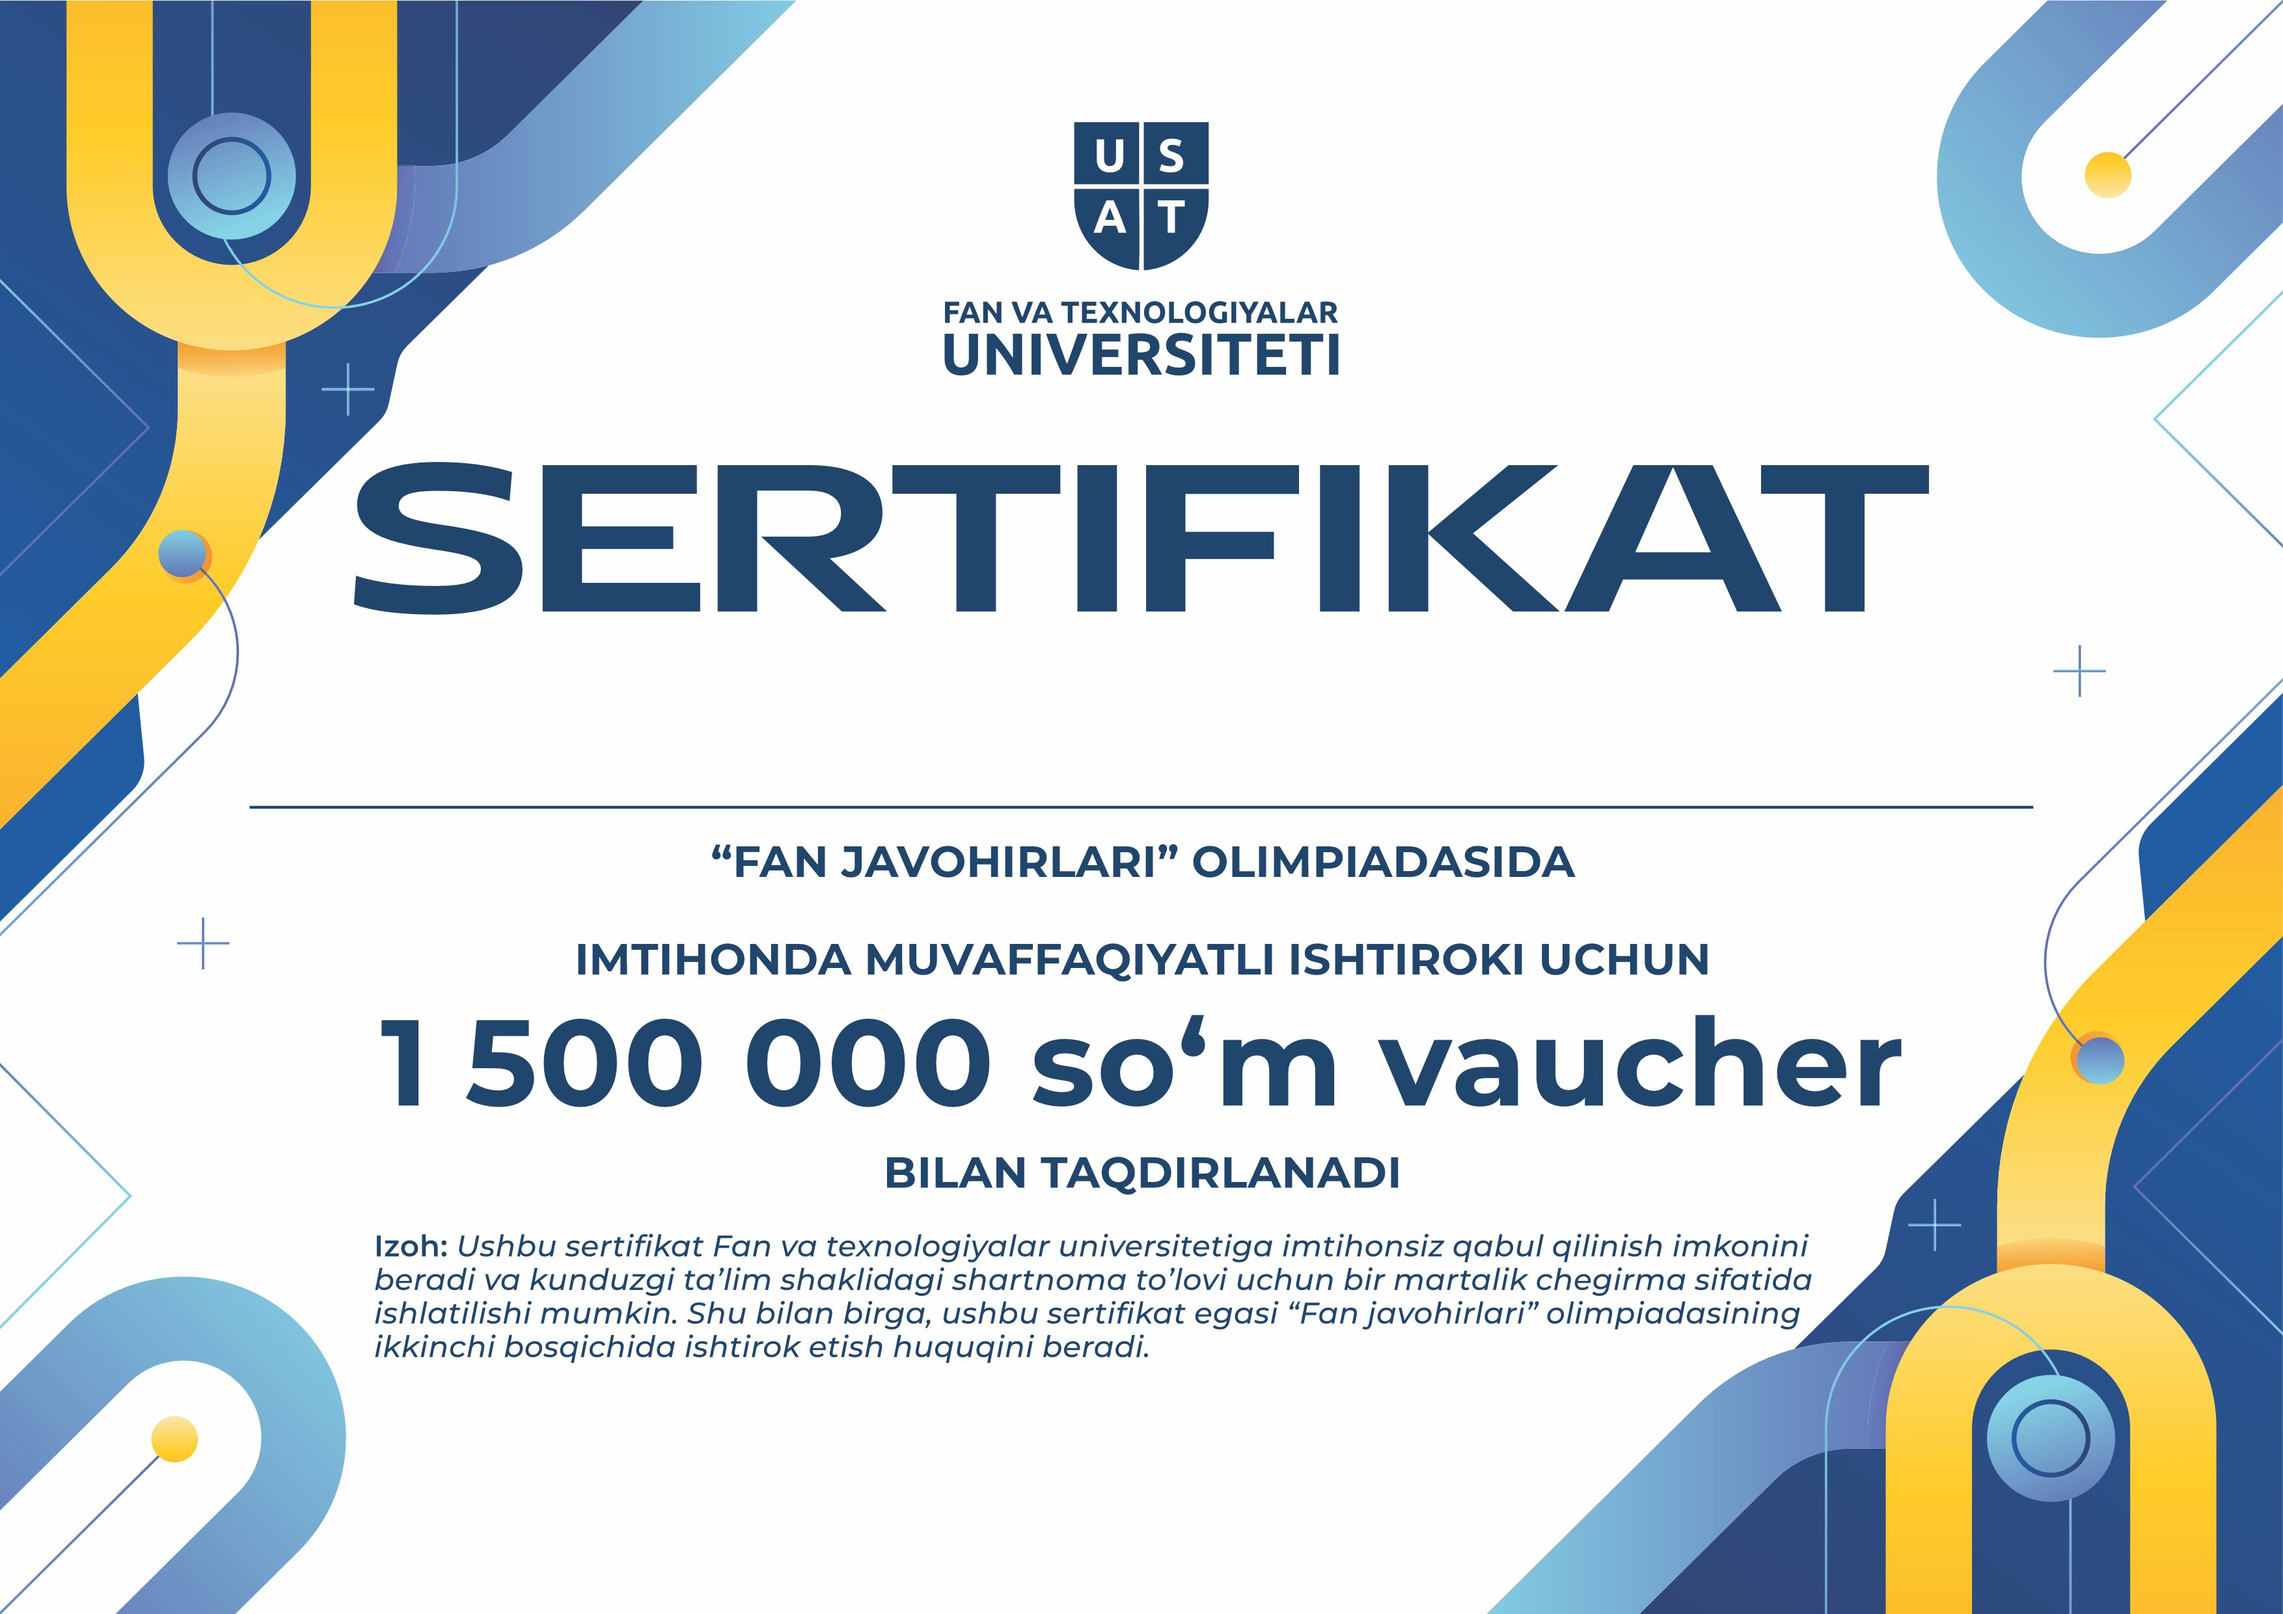
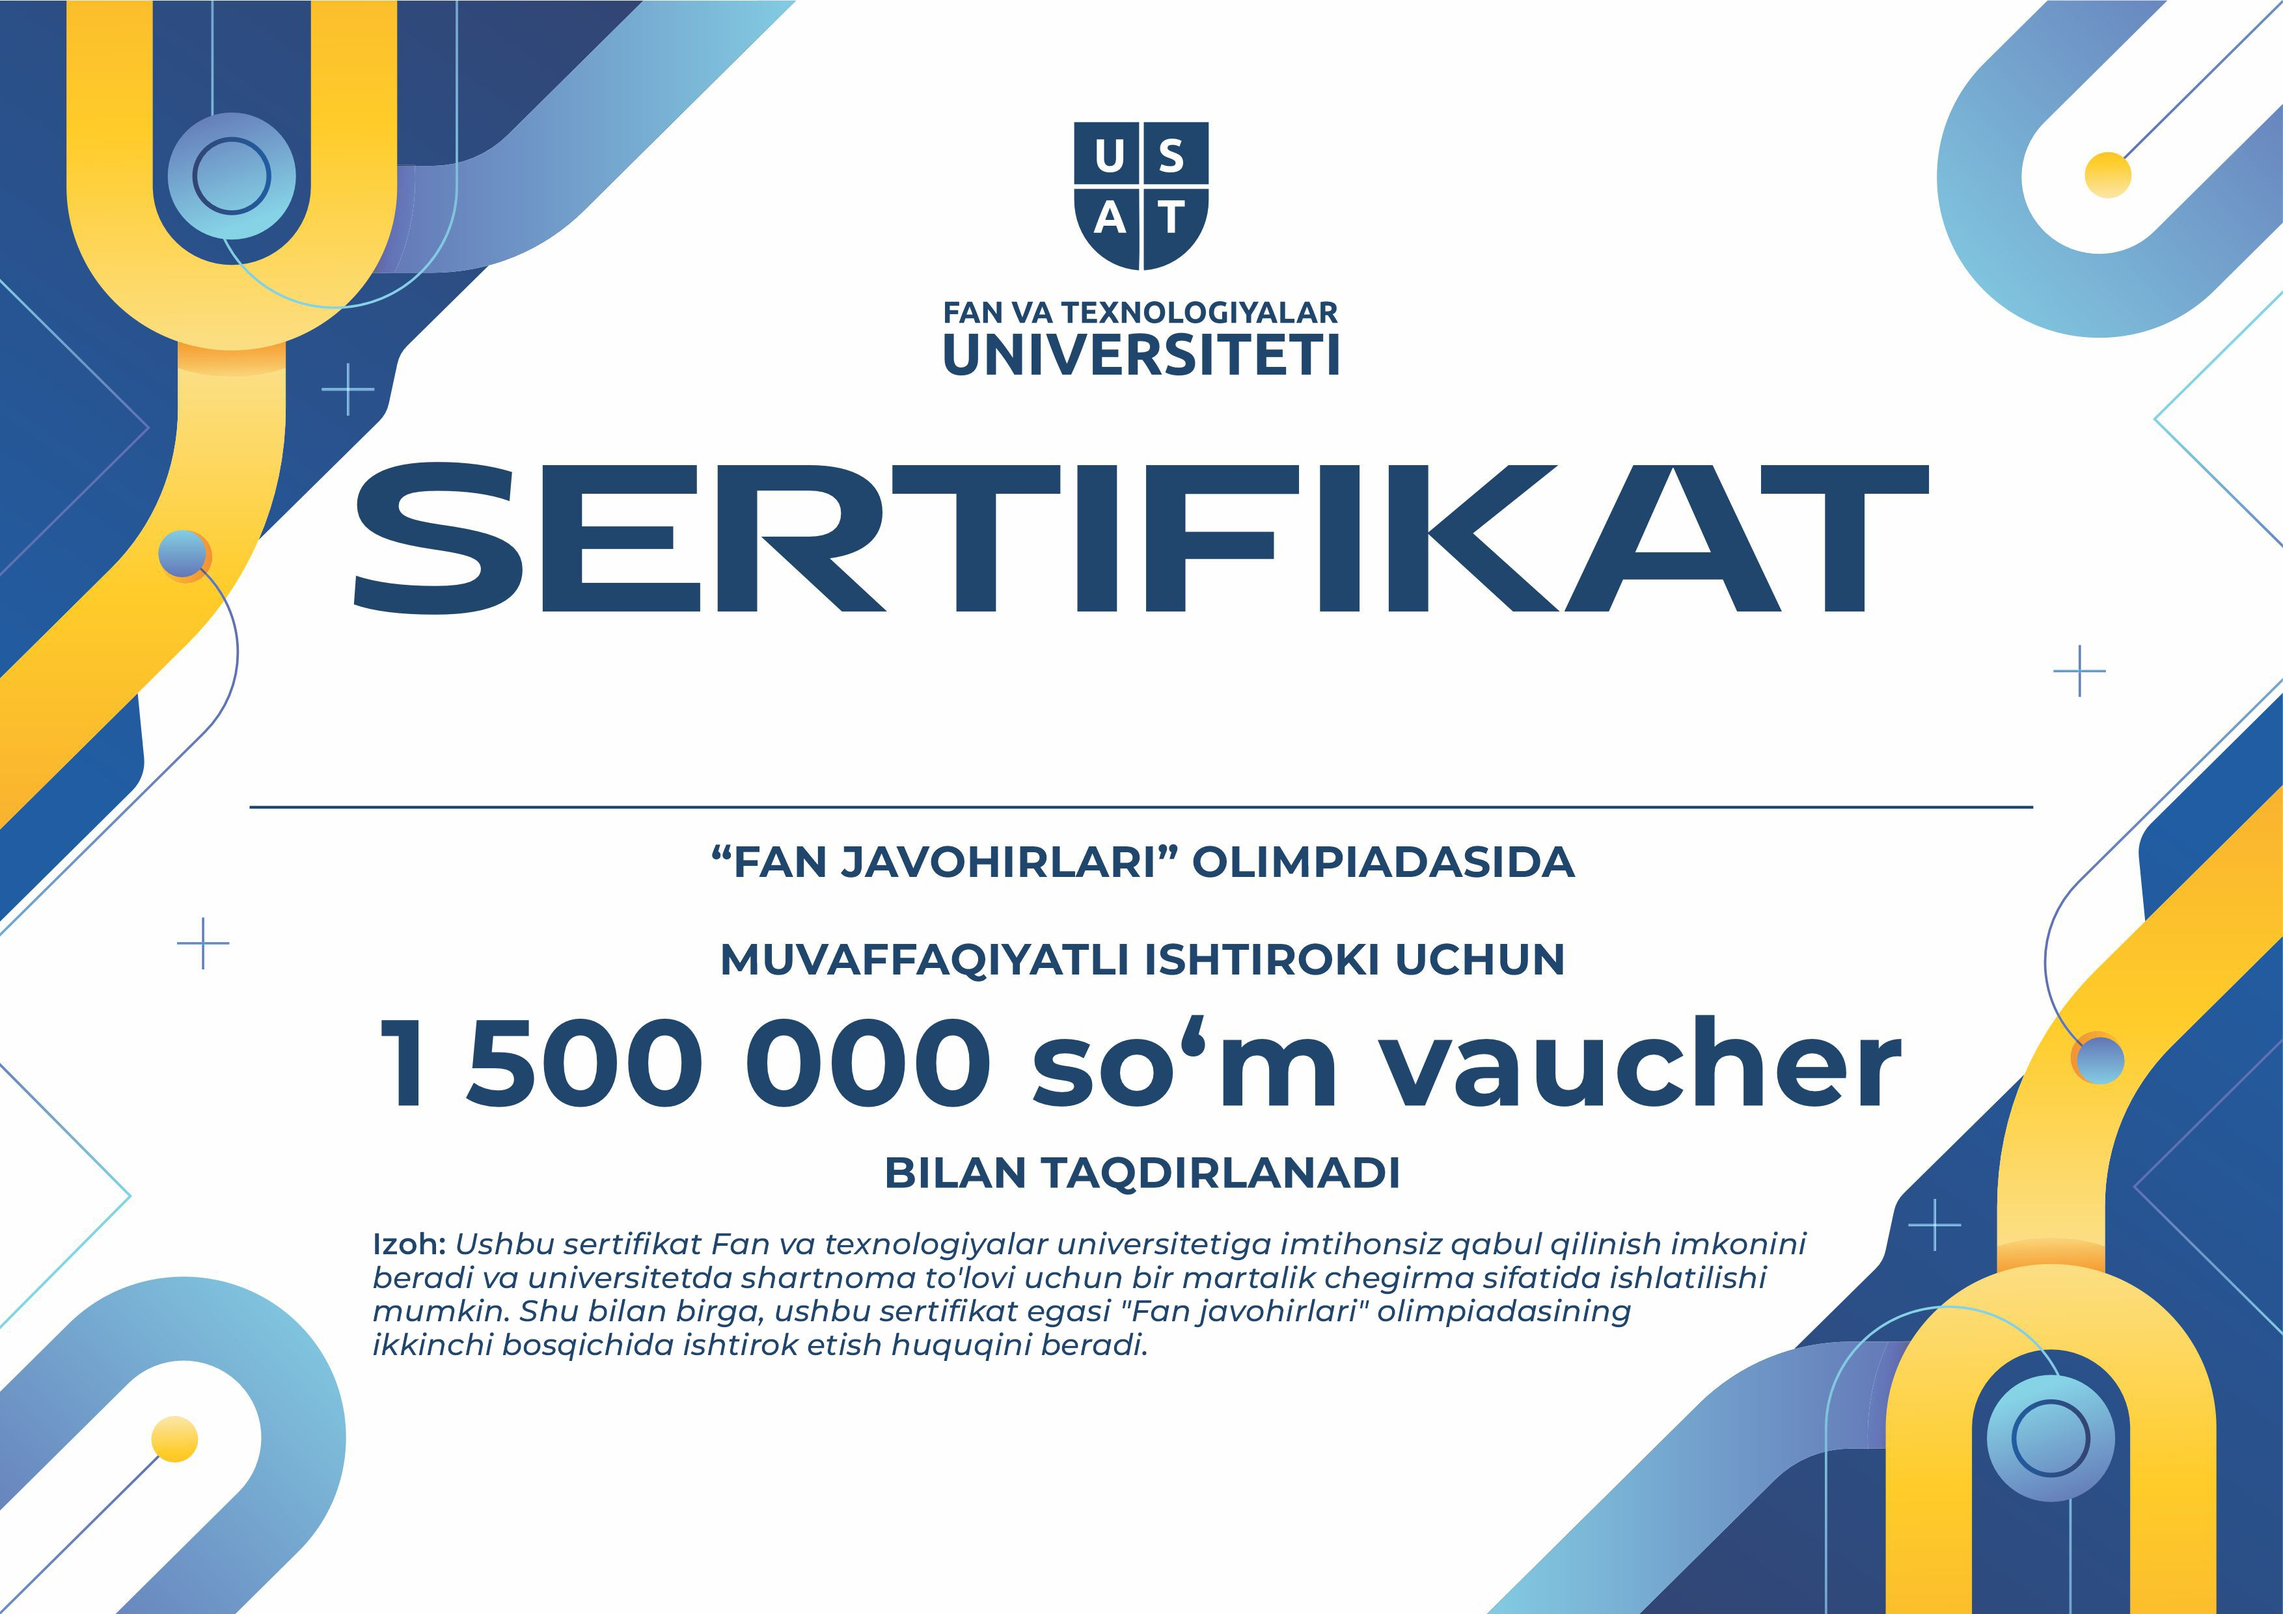
update certificate

Changed region(s): [[0.1554, 0.7449, 0.8079, 0.838], [0.2486, 0.5897, 0.7457, 0.6207]]

diff --git a/handlers/users/test_execution_handler.py b/handlers/users/test_execution_handler.py
@@ -354,29 +354,28 @@ async def handle_test_completion(call, state, test_id, user_resp, language, resp
     if data.get('olympiad_test'):
         text1 = ("✅ Olimpiada testi yakunlandi!\n\nHurmatli {}, siz test savollarining {} tasiga to'g'ri javob berib, "
                  "{} ballni qo'lga kiritdingiz.\n\nTabriklaymiz, siz olimpiadaning 2-bosqichiga o'tdingiz. 2-bosqich "
-                 "may oyida Fan va texnologiyalar universitetining binosida bo'lib o'tadi.\n\nShu bilan birga, "
+                 "may oyida Fan va texnologiyalar universitetining binosida bo'lib o'tadi. \n\nShu bilan birga, "
                  "siz 2 million so'mlik vaucherni ham qo'lga kiritdingiz. Ushbu vaucherni Fan va texnologiyalar "
-                 "universitetida kunduzgi ta'lim shaklidagi shartnoma to'lovi uchun bir martalik chegirma sifatida "
-                 "ishlatishingiz mumkin.\n\nFan va texnologiyalar universitetining yangiliklaridan xabardor bo'lib "
-                 "turish uchun @usatuzb telegram kanaliga a'zo bo'lishingiz mumkin. Batafsil ma'lumot uchun "
-                 "78-888-38-88 telefon raqamiga qo'ng'iroq qiling.\n\nBizni sizni kutamiz!")
+                 "universitetida shartnoma to'lovi uchun bir martalik chegirma sifatida ishlatishingiz mumkin.\n\nFan "
+                 "va texnologiyalar universitetining yangiliklaridan xabardor bo'lib turish uchun @usatuzb telegram "
+                 "kanaliga a'zo bo'lishingiz mumkin. Batafsil ma'lumot uchun 78-888-38-88 telefon raqamiga qo'ng'iroq "
+                 "qiling.\n\nBizni sizni kutamiz!")
         text2 = ("✅ Olimpiada testi yakunlandi!\n\nHurmatli {}, siz test savollarining {} tasiga to'g'ri javob berib, "
                  "{} ballni qo'lga kiritdingiz.\n\nTabriklaymiz, siz olimpiadaning 2-bosqichiga o'tdingiz. 2-bosqich "
                  "may oyida Fan va texnologiyalar universitetining binosida bo'lib o'tadi. \n\nShu bilan birga, "
                  "siz 1,5 million so'mlik vaucherni ham qo'lga kiritdingiz. Ushbu vaucherni Fan va texnologiyalar "
-                 "universitetida kunduzgi ta'lim shaklidagi shartnoma to'lovi uchun bir martalik chegirma sifatida "
-                 "ishlatishingiz mumkin.\n\nFan va texnologiyalar universitetining yangiliklaridan xabardor bo'lib "
-                 "turish uchun @usatuzb telegram kanaliga a'zo bo'lishingiz mumkin. Batafsil ma'lumot uchun "
-                 "78-888-38-88 telefon raqamiga qo'ng'iroq qiling.\n\nBizni sizni kutamiz!")
+                 "universitetida shartnoma to'lovi uchun bir martalik chegirma sifatida ishlatishingiz mumkin.\n\nFan "
+                 "va texnologiyalar universitetining yangiliklaridan xabardor bo'lib turish uchun @usatuzb telegram "
+                 "kanaliga a'zo bo'lishingiz mumkin. Batafsil ma'lumot uchun 78-888-38-88 telefon raqamiga qo'ng'iroq "
+                 "qiling.\n\nBizni sizni kutamiz!")
         text3 = ("✅ Olimpiada testi yakunlandi!\n\nHurmatli {}, siz test savollarining {} tasiga to'g'ri javob berib, "
                  "{} ballni qo'lga kiritdingiz.\n\nTabriklaymiz, siz olimpiadada muvaffaqiyatli ishtirok etdingiz, "
-                 "ammo 2-bosqichda ishtirok etish uchun yetarlicha ball to'play olmadingiz. "
-                 "\n\nShunga qaramay, universitetimizda ta'lim olish istagini bildirganingiz va faolligingiz uchun "
-                 "sizga qiymati 1 million so'mlik vaucherni taqdim etamiz. Ushbu vaucherni Fan va texnologiyalar "
-                 "universitetida kunduzgi ta'lim shaklidagi shartnoma to'lovi uchun bir martalik chegirma sifatida "
-                 "ishlatishingiz mumkin. Shu bilan birga, Fan va texnologiyalar universitetiga hujjatlaringizni "
-                 "topshirsangiz, sizni imtihonlarsiz qabul qilamiz."
-                 "\n\nFan va texnologiyalar universitetining yangiliklaridan xabardor bo'lib turish uchun "
+                 "ammo 2-bosqichda ishtirok etish uchun yetarlicha ball to'play olmadingiz. \n\nShunga qaramay, "
+                 "universitetimizda ta'lim olish istagini bildirganingiz va faolligingiz uchun sizga qiymati 1 "
+                 "million so'mlik vaucherni taqdim etamiz. Ushbu vaucherni Fan va texnologiyalar universitetida "
+                 "shartnoma to'lovi uchun bir martalik chegirma sifatida ishlatishingiz mumkin. Shu bilan birga, "
+                 "Fan va texnologiyalar universitetiga hujjatlaringizni topshirsangiz, sizni imtihonlarsiz qabul "
+                 "qilamiz. \n\nFan va texnologiyalar universitetining yangiliklaridan xabardor bo'lib turish uchun "
                  "@usatuzb telegram kanaliga a'zo bo'lishingiz mumkin. Batafsil ma'lumot uchun 78-888-38-88 telefon "
                  "raqamiga qo'ng'iroq qiling.\n\nSiz bilan universitetimizning talabasi sifatida uchrashishimizni "
                  "sabrsizlik bilan kutib qolamiz! 🤗")
@@ -406,7 +405,11 @@ async def handle_test_completion(call, state, test_id, user_resp, language, resp
         await post_or_put_result(user[0], user_id, result, image_url)
         os.remove(image_path) if os.path.exists(image_path) else None
     else:
-        info_template = "✅ Test yakunlandi!\nHurmatli {}, siz test savollarining {} tasiga to’g’ri va {} tasiga noto’g’ri javob berdingiz." if language == 'uzbek' else "✅ Тест завершен!\nУважаемый(ая) {}, Вы ответили на {} вопросов теста правильно, а на {} — неправильно."
+        info_template = ("✅ Test yakunlandi!\nHurmatli {}, siz test savollarining {} tasiga to’g’ri va {} tasiga "
+                         "noto’g’ri javob berdingiz.") if language == 'uzbek' else ("✅ Тест завершен!\nУважаемый(ая) {"
+                                                                                    "}, Вы ответили на {} вопросов "
+                                                                                    "теста правильно, "
+                                                                                    "а на {} — неправильно.")
         info = info_template.format(user_name, db_responses.count('1'), db_responses.count('0'))
         await call.message.answer(info, reply_markup=menu_test_uz if language == 'uzbek' else menu_test_ru)
         image_url = None

diff --git a/utils/db_api/database.py b/utils/db_api/database.py
@@ -55,7 +55,8 @@ class Database:
             SQL_query = ("UPDATE users SET language=%s, fullname=%s, phone_number=%s, region=%s, district=%s, "
                          "school_number=%s, science_1=%s, science_2=%s, science_3=%s, olimpia_science=%s, "
                          "update_time=%s, pinfl=%s WHERE tg_id=%s;")
-            await self.execute_query(SQL_query, language, fullname, str(phone), region, district, school, sc1, sc2, sc3, science, datetime.datetime.now(), pinfl, str(tg_id))
+            await self.execute_query(SQL_query, language, fullname, str(phone), region, district, school, sc1, sc2, sc3,
+                                     science, datetime.datetime.now(), pinfl, str(tg_id))
         else:
             sql_query = "SELECT MAX(id) FROM users;"
             max_id = (await self.execute_query(sql_query))[0][0]
@@ -64,8 +65,9 @@ class Database:
                          "school_number, science_1, science_2, science_3, olimpia_science, created_time, update_time, "
                          "pinfl) VALUES"
                          "(%s, %s, %s, %s, %s, %s, %s, %s, %s, %s, %s, %s, %s, %s, %s);")
-            await self.execute_query(SQL_query, new_id, str(tg_id), language, fullname, str(phone), region, district, school, sc1, sc2, sc3, science,
-                                    datetime.datetime.now(), datetime.datetime.now(), pinfl)
+            await self.execute_query(SQL_query, new_id, str(tg_id), language, fullname, str(phone), region, district,
+                                     school, sc1, sc2, sc3, science,
+                                     datetime.datetime.now(), datetime.datetime.now(), pinfl)
         user_data = await self.select_user(str(tg_id))
         await post_or_put_data(*user_data)
 
@@ -116,13 +118,15 @@ class Database:
         return (await self.execute_query(query, test_id, number))[0]
 
     async def add_test_result(self, test_id, tg_id, language, fullname, phone_number, region, district, school_number,
-                              science, responses, result_time, pinfl=None, certificate_image=None, olympiad_test=False, *args, **kwargs):
+                              science, responses, result_time, pinfl=None, certificate_image=None, olympiad_test=False,
+                              *args, **kwargs):
         test_result = await self.select_result_test_user(str(tg_id), science, olympiad_test)
         if test_result:
             query = ("UPDATE test_result SET language=%s, fullname=%s, phone_number=%s, region=%s, district=%s, "
                      "school_number=%s, science=%s, responses=%s, result_time=%s, pinfl=%s, certificate_image=%s "
                      "WHERE test_id=%s AND tg_id=%s;")
-            await self.execute_query(query, language, fullname, str(phone_number), region, district, school_number, science, responses, result_time, pinfl, certificate_image, test_id, str(tg_id))
+            await self.execute_query(query, language, fullname, str(phone_number), region, district, school_number,
+                                     science, responses, result_time, pinfl, certificate_image, test_id, str(tg_id))
         else:
             query = "SELECT MAX(id) FROM test_result;"
             max_id = (await self.execute_query(query))[0][0]
@@ -130,7 +134,8 @@ class Database:
             query = ("INSERT INTO test_result (id, tg_id, language, fullname, phone_number, region, district, "
                      "school_number, science, responses, result_time, test_id, pinfl, certificate_image) VALUES (%s, "
                      "%s, %s, %s, %s, %s, %s, %s, %s, %s, %s, %s, %s, %s);")
-            await self.execute_query(query, new_id, str(tg_id), language, fullname, str(phone_number), region, district, school_number,
+            await self.execute_query(query, new_id, str(tg_id), language, fullname, str(phone_number), region, district,
+                                     school_number,
                                      science, responses, result_time, test_id, pinfl, certificate_image)
 
     async def select_science_tests(self, science, olympiad_test=False):

diff --git a/utils/misc/create_certificate/create_certificate.py b/utils/misc/create_certificate/create_certificate.py
@@ -12,7 +12,7 @@ FONT_MONTSERRAT_BOLD = os.path.join(FONT_FOLDER, 'Montserrat-Bold.otf')
 FONT_MONTSERRAT_REGULAR = os.path.join(FONT_FOLDER, 'Montserrat-Regular.otf')
 TEXT_COLOR = (39, 64, 121)
 VALID_IMAGE_INDEX_RANGE = range(4)
-IMAGES = ['cer001', 'cer002', 'cer003', '0004']
+IMAGES = ['cer001', 'cer002', 'cer003', 'cer004']
 
 
 async def create_certificate(user_id, image_index, fullname, science, language='uzbek'):
